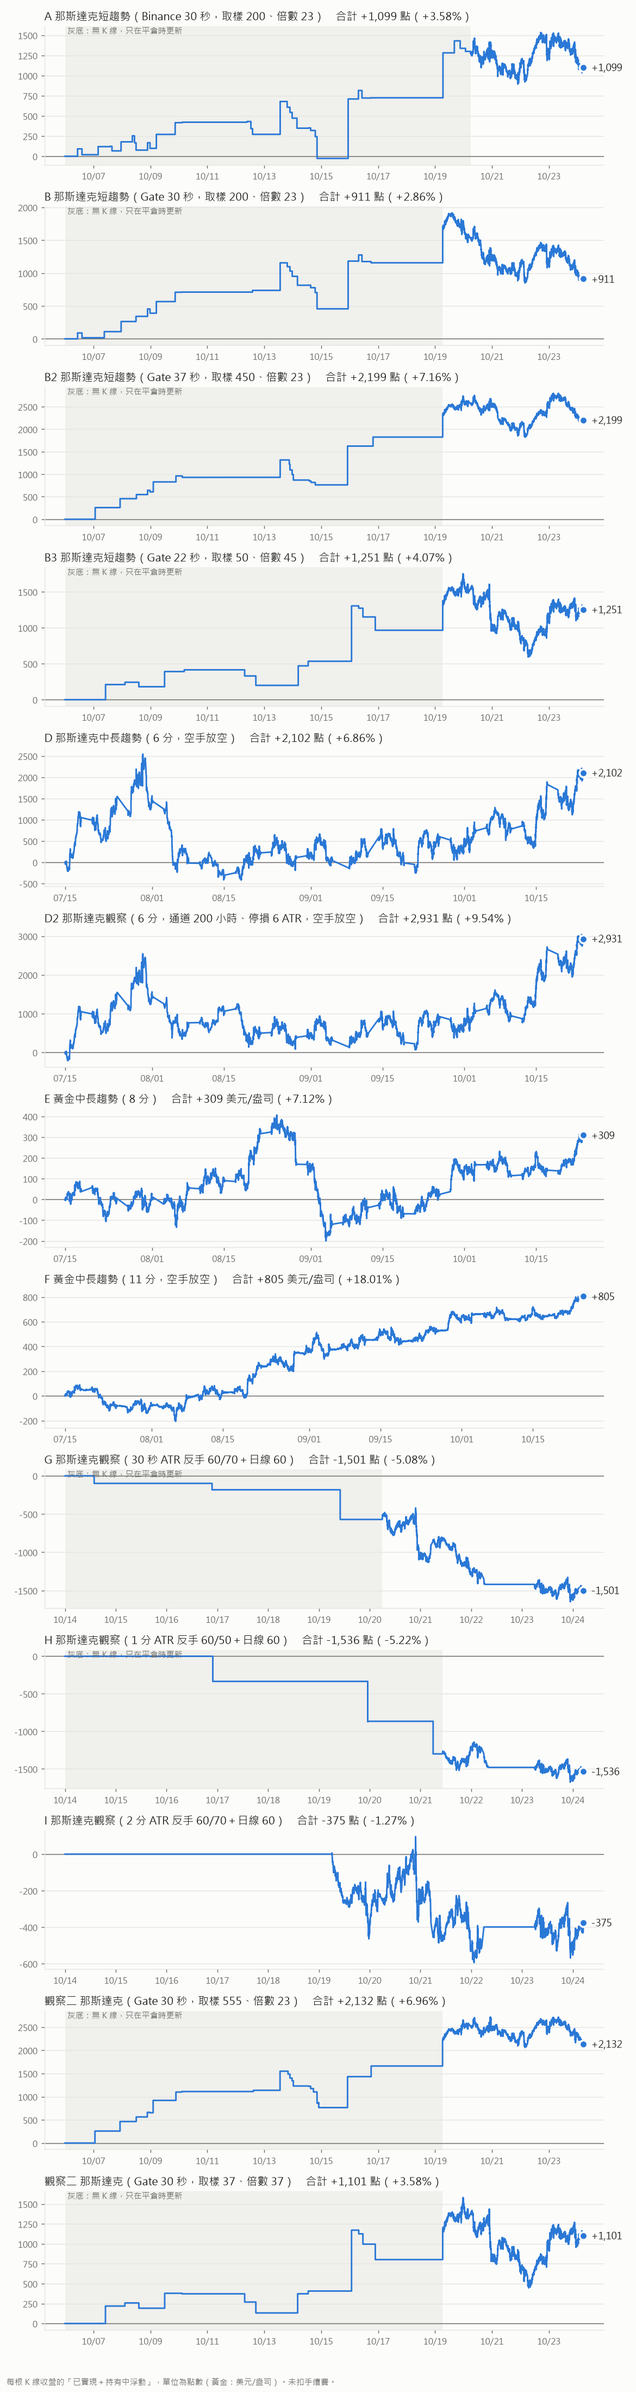
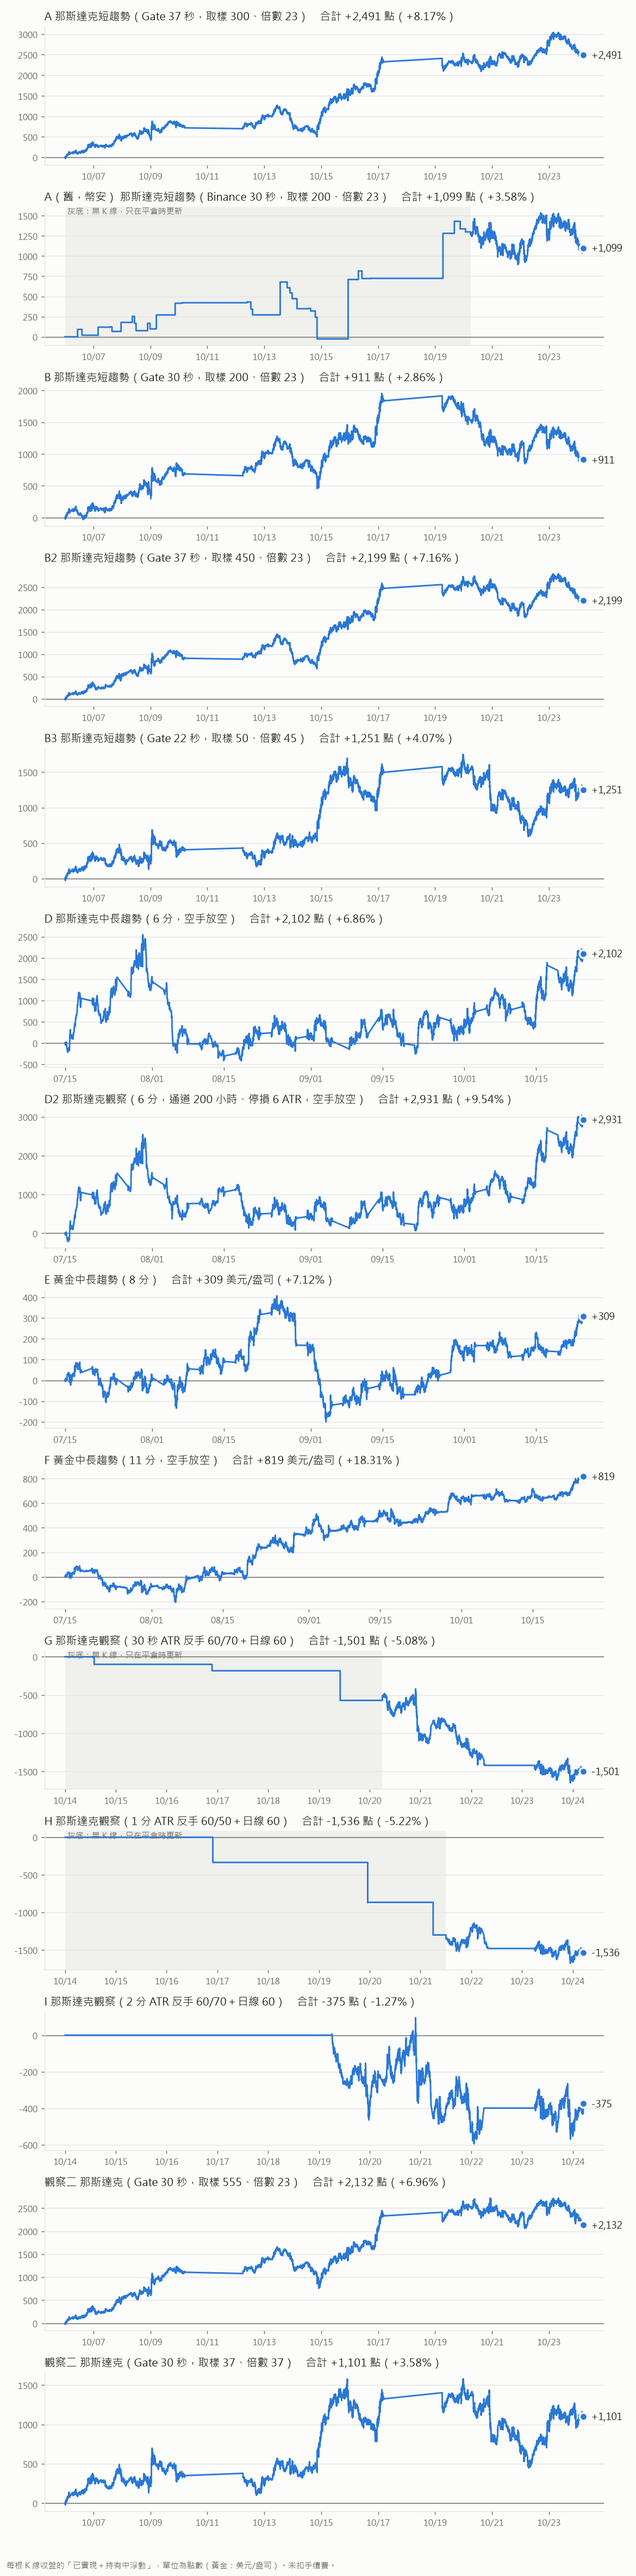
期貨趨勢 v1.26.0：A 格換成 GA（Gate 逐筆 37 秒 300/23，候選①），九格外框照部位閃爍、所有閃爍同步
- A 格改 Gate 逐筆合成 37 秒 Range Filter 300/23，畫面名稱改 GA；明細與績效表改讀紀錄代號 GA
- 紀錄程式新增 GA（起算 10/6，與 B2 共用 37 秒 K），回算新增 31 列；舊幣安 A 照樣更新、畫面不再列
- 電腦版九格外框：持多螢光紅、持空螢光綠閃爍，空手無框，取代 v1.25.1 固定藍框
- 所有 1.2 秒閃爍起點對齊同一時間原點

diff --git a/index.html b/index.html
@@ -3,7 +3,7 @@
 <head>
 <meta charset="utf-8">
 <meta name="viewport" content="width=device-width,initial-scale=1,viewport-fit=cover">
-<title>期貨趨勢 v1.25.1</title>
+<title>期貨趨勢 v1.26.0</title>
 <meta name="description" content="那斯達克 30 秒 Range Filter（Binance 與 Gate）、那斯達克 6 分、黃金 8 分與黃金 11 分 Donchian 的即時趨勢訊號">
 <meta name="theme-color" content="#0b0e14">
 <meta name="apple-mobile-web-app-capable" content="yes">
@@ -78,9 +78,12 @@ h1 small{font-size:11px;color:#ff2d55;font-weight:400;margin-left:5px}
   border-radius:8px;padding:5px 7px 6px}
 .ph{flex:none;display:flex;align-items:center;gap:6px;white-space:nowrap}
 .ph b{font-size:14px;color:#ffd400}
-/* v1.25.1：B2、觀察二 555/23、D2 外框螢光藍細線閃爍（使用者 2026-10-24 要求，只動框線深淺、不加光暈） */
-@keyframes frameBlink{0%,100%{border-color:#00e5ff}50%{border-color:rgba(0,229,255,.15)}}
-.panel.frame{border:1px solid #00e5ff;animation:frameBlink 1.2s ease-in-out infinite}
+/* v1.26.0：電腦版那九格外框照部位閃爍（使用者 2026-10-24 要求）：持多螢光紅、持空螢光綠、空手不加框；只動框線深淺，不加光暈。
+   取代 v1.25.1 固定的螢光藍框與 GA 固定紅框。 */
+@keyframes frLong{0%,100%{border-color:#ff1744}50%{border-color:rgba(255,23,68,.15)}}
+@keyframes frShort{0%,100%{border-color:#39ff14}50%{border-color:rgba(57,255,20,.15)}}
+.panel.fr-long{border:1px solid #ff1744;animation:frLong 1.2s ease-in-out infinite}
+.panel.fr-short{border:1px solid #39ff14;animation:frShort 1.2s ease-in-out infinite}
 /* v1.16.0：B2 與台指 A/B 是 2026-10-18 與 TradingView 版面 848 逐筆對齊確認過的兩格，
    商品名稱閃爍標示。只改透明度、不加光暈，字本身的清晰度不動。 */
 @keyframes blinkName{0%,100%{opacity:1}50%{opacity:.25}}
@@ -203,7 +206,7 @@ canvas{display:block;width:100%;height:100%;touch-action:pan-y;cursor:crosshair}
 
 <script>
 "use strict";
-const VERSION = "v1.25.1";   // v1.25.1：圖表標題 A 改回黃字不閃爍；B2、觀察二 555/23、D2 外框螢光藍細線閃爍。v1.25.0：電腦版（同一份程式，寬 1280px 以上或手動選「電腦」）：指定 9 格同一頁三欄三列、一樣大、不捲動；同市場格子同步顯示範圍（那斯達克、台指、恆生）；表格線螢光藍；持多／持空後面放合計（已平倉＋浮動）。v1.24.0：v1.23.6：圖表標題的觀察二 37/37 也改紅字閃爍；v1.23.5：圖表標題的 A、B2、D2、觀察二 555/23 改紅字閃爍；v1.23.4：績效表與明細的 A、B2、D2、觀察二 555/23 改紅字閃爍（只動透明度，不加光暈）；v1.23.3：明細的台指 A/B、觀察二台指拿掉閃爍；v1.23.2：台指四組從 10/21 起重新記錄觀察；v1.23.1：台指 A/B、觀察二可讀 台指/tv_hist.json 補 10/06 起的舊段明細；v1.23.0：台指四格用網頁自己的策略（參數不變）、資料只用 TradingView 台指期（1 秒 K 合成各格週期），不再照抄 848、不再讀期交所；v1.22.1：台指 K 線不再等期交所盤後檔，沒有連續月 30 秒時改用 TradingView 1 秒 K 合成；v1.22.0：台指 K 線改讀 TradingView 連續月 30 秒（轉接站 /tw，收到 200 根起生效，之前照舊）；v1.21.0：台指四組的持倉、明細、績效表改照 TradingView 848（連續月）交易清單（台指/tv_signals.json）；v1.20.4：台指換月窗恢復只看盤後（TX_HOLD_ROLL＝true）；v1.20.3：台指換月窗改即時優先；v1.20.2：明細視窗標題「交易明細」→「明細」；v1.20.1：標題列「中長趨勢」→「趨勢」、「交易明細」→「明細」；v1.20.0：交易明細加「績效表」分頁
+const VERSION = "v1.26.0";   // v1.26.0：A 格改 Gate 逐筆合成 37 秒 300/23（候選①），明細與績效表的 A 改讀紀錄代號 GA；畫面名稱改叫 GA；電腦版九格外框照部位閃爍（持多螢光紅、持空螢光綠、空手無框），取代 v1.25.1 的固定藍框。所有閃爍同步。v1.25.1：圖表標題 A 改回黃字不閃爍；B2、觀察二 555/23、D2 外框螢光藍細線閃爍。v1.25.0：電腦版（同一份程式，寬 1280px 以上或手動選「電腦」）：指定 9 格同一頁三欄三列、一樣大、不捲動；同市場格子同步顯示範圍（那斯達克、台指、恆生）；表格線螢光藍；持多／持空後面放合計（已平倉＋浮動）。v1.24.0：v1.23.6：圖表標題的觀察二 37/37 也改紅字閃爍；v1.23.5：圖表標題的 A、B2、D2、觀察二 555/23 改紅字閃爍；v1.23.4：績效表與明細的 A、B2、D2、觀察二 555/23 改紅字閃爍（只動透明度，不加光暈）；v1.23.3：明細的台指 A/B、觀察二台指拿掉閃爍；v1.23.2：台指四組從 10/21 起重新記錄觀察；v1.23.1：台指 A/B、觀察二可讀 台指/tv_hist.json 補 10/06 起的舊段明細；v1.23.0：台指四格用網頁自己的策略（參數不變）、資料只用 TradingView 台指期（1 秒 K 合成各格週期），不再照抄 848、不再讀期交所；v1.22.1：台指 K 線不再等期交所盤後檔，沒有連續月 30 秒時改用 TradingView 1 秒 K 合成；v1.22.0：台指 K 線改讀 TradingView 連續月 30 秒（轉接站 /tw，收到 200 根起生效，之前照舊）；v1.21.0：台指四組的持倉、明細、績效表改照 TradingView 848（連續月）交易清單（台指/tv_signals.json）；v1.20.4：台指換月窗恢復只看盤後（TX_HOLD_ROLL＝true）；v1.20.3：台指換月窗改即時優先；v1.20.2：明細視窗標題「交易明細」→「明細」；v1.20.1：標題列「中長趨勢」→「趨勢」、「交易明細」→「明細」；v1.20.0：交易明細加「績效表」分頁
 const $ = id => document.getElementById(id);
 const FAPI = "https://fapi.binance.com/fapi/v1";
 const sleep = ms => new Promise(r => setTimeout(r, ms));
@@ -502,10 +505,14 @@ function toFlatShort(R){
 
 /* ============ 面板設定（參數讀自 TradingView 版面 JuwDqkR0，2026-10-07） ============ */
 const PANELS = [
-  {k:"rf", pg:"short", title:"那斯達克", tf:"短趨勢・A", sym:"QQQUSDT", nq:true, kind:"rf", span:1e9,
-   spec:{tf:"30 秒", par:"Range Filter 取樣 200・倍數 23・多空反轉", src:"Binance QQQ 合約逐筆合成"},
-   sub:"Range Filter 取樣 200・倍數 23・多空反轉（線色＝濾網方向）",
-   P:{per:200, mult:23, useAtr:true, atrLen:12, atrMult:1.5, useVol:true, volLen:20}},
+  /* v1.26.0（使用者 2026-10-24「把 A 換成候選①」）：A 格由幣安 30 秒 200/23 改成 Gate 逐筆合成 37 秒 Range Filter 300/23
+     （與 B2 同資料、同週期，只換取樣）。10/6～10/24 掃 20～40 秒 × 11,550 組挑的：29 筆、+144,460（B2 31 筆 +125,062），
+     多出來的全在 10/15 之後，同一段資料挑的會偏好看。紀錄代號 GA；舊幣安 A 的紀錄照樣更新、不刪。
+     幣安 30 秒線仍要載入：那斯達克換算比例與觀察頁 G 格在用。 */
+  {k:"rf", pg:"short", title:"那斯達克", tf:"短趨勢・GA", sym:"QQQ_USDT", src:"gtr", tfSec:37, nq:true, kind:"rf", span:1e9,
+   spec:{tf:"37 秒", par:"Range Filter 取樣 300・倍數 23・多空反轉", src:"Gate QQQ 合約逐筆合成"},
+   sub:"Gate QQQ 合約逐筆合成 37 秒 K・Range Filter 取樣 300・倍數 23",
+   P:{per:300, mult:23, useAtr:true, atrLen:12, atrMult:1.5, useVol:true, volLen:20}},
   /* v1.6.0：A-2（取樣 400・倍數 16）拿掉，改放 Gate 版（使用者 2026-10-12 指定）。
      規則與 A-1 完全相同（30 秒 Range Filter 200/23），只換資料源：Gate QQQ_USDT 合約的原生 30 秒 K。
      為什麼：Binance 擋 Cloudflare，A-1 沒辦法雲端推播；Gate 連得到，LINE 推播改推這組。
@@ -520,7 +527,7 @@ const PANELS = [
      B2 37 秒 450/23 為 17 筆、勝率 41%、+1,675（37、38 秒 350～550 都在 +1,470～1,675）；
      B3 22 秒 50/45 為 9 筆、勝率 67%、+1,532（取樣 50 是掃描下限，周圍未確認）。都是同一段資料挑的，會偏好看。
      Gate 沒有 37、22 秒的原生 K，兩格用逐筆成交自己合成（GTR）。原 B2（30 秒 500/60）與 C 格（Hyperliquid 1 分）刪除。 */
-  {k:"gate2", red:true, frame:true, pg:"short", title:"那斯達克", tf:"短趨勢・B2", sym:"QQQ_USDT", src:"gtr", tfSec:37, nq:true, kind:"rf", span:1e9,
+  {k:"gate2", red:true, pg:"short", title:"那斯達克", tf:"短趨勢・B2", sym:"QQQ_USDT", src:"gtr", tfSec:37, nq:true, kind:"rf", span:1e9,
    spec:{tf:"37 秒", par:"Range Filter 取樣 450・倍數 23・多空反轉", src:"Gate QQQ 合約逐筆合成"},
    sub:"Gate QQQ 合約逐筆合成 37 秒 K・Range Filter 取樣 450・倍數 23",
    P:{per:450, mult:23, useAtr:true, atrLen:12, atrMult:1.5, useVol:true, volLen:20}},
@@ -552,7 +559,7 @@ const PANELS = [
   /* D2（使用者 2026-10-15 要求，放在 D 正下方）：同 D 的資料與算法，只換參數 200 小時／停損 6 ATR、空手改放空（不擋）。
      TradingView NQ1! 6 分 2008-10～2026-10 掃 162 組：200/6 多空都做 +1,064 點（空單 −11,996，2022 空頭年 +3,587），
      只做多 200/6 +13,060、抱著約 +25,700。使用者認為空頭時代要來，並行觀察。 */
-  {k:"nq6b", pg:"long", red:true, frame:true, title:"那斯達克", tf:"中長趨勢・D2", sym:"NQ=F", src:"yahoo", nq:false, kind:"don", tfMin:6, span:1e9, flatCol:"#4cff00", flatShort:true,
+  {k:"nq6b", pg:"long", red:true, title:"那斯達克", tf:"中長趨勢・D2", sym:"NQ=F", src:"yahoo", nq:false, kind:"don", tfMin:6, span:1e9, flatCol:"#4cff00", flatShort:true,
    spec:{tf:"6 分", par:"Donchian 回看 200 小時・停損 6 ATR・空手改放空", src:"NQ 期貨單一月份合約（Yahoo，延遲約 10 分鐘）"},
    sub:"NQ 期貨單一月份合約 6 分（同 D）・Donchian 回看 200 小時（2,000 根）・停損 6 ATR・空手改放空（不擋）",
    P:{lookH:200, mode:"long", stopAtr:6, atrLen:14, tfMin:6}},
@@ -588,7 +595,7 @@ const PANELS = [
      那斯達克 555/23 +7.71%（唯一三個商品前後半都賺的參數）、微台 555/23 +6.64%、那斯達克 37/37 +7.76%（回落 1.32% 最平順）、
      恆生 555/25.5 +6.11%（勝率 65%、回落 0.96%，但只有 2.5 週 17 筆）。參數照 848 不改；那斯達克兩格用 B 格同一份 Gate 30 秒原生 K、
      微台用台指頁的 30 秒 K。恆生沒有免費 30 秒資料源，先放空格，等使用者決定接法。 */
-  {k:"o2nq", red:true, frame:true, pg:"obs2", title:"那斯達克", tf:"觀察二・555/23", sym:"QQQ_USDT", src:"gate", nq:true, kind:"rf", span:1e9,
+  {k:"o2nq", red:true, pg:"obs2", title:"那斯達克", tf:"觀察二・555/23", sym:"QQQ_USDT", src:"gate", nq:true, kind:"rf", span:1e9,
    spec:{tf:"30 秒", par:"Range Filter 取樣 555・倍數 23・多空反轉", src:"Gate QQQ 合約原生 30 秒 K"},
    sub:"Gate QQQ 合約 30 秒 K（同 B）・Range Filter 取樣 555・倍數 23（848 左中）",
    P:{per:555, mult:23, useAtr:true, atrLen:12, atrMult:1.5, useVol:true, volLen:20}},
@@ -988,7 +995,7 @@ function recompute(p){
 function buildDOM(){
   $("ver").textContent = VERSION;
   $("grid").innerHTML = PANELS.map(p => `
-  <section class="panel${p.frame?" frame":""}" id="p-${p.k}">
+  <section class="panel" id="p-${p.k}">
     <div class="ph"><b${p.red?' class="redblink"':p.blink?' class="blink"':''}>${p.title}</b><span class="tag">${p.tf}</span><span class="badge" id="dir-${p.k}">—</span><span class="px" id="px-${p.k}"></span></div>
     <div class="kv" id="kv-${p.k}"></div>
     <div class="cw">
@@ -1075,6 +1082,14 @@ function totalHtml(p){
     return ` <span class="tot ${ud(Math.round(sum))}">${txt}</span>`;
   }catch(e){ return ""; }
 }
+/* v1.26.0：所有閃爍（外框、紅字標題、明細按鈕、即時燈號，都是 1.2 秒）起點對齊同一個時間原點，畫面上一起亮一起暗（使用者 2026-10-24 要求）。
+   動畫是各自加上樣式那一刻才起跑，不對齊就會錯開；每秒補一次，新出現的閃爍也會對齊。 */
+const BLINKS = new Set(["blink", "blinkName", "frLong", "frShort"]);
+function syncBlink(){
+  if(!document.getAnimations) return;
+  for(const a of document.getAnimations()) if(BLINKS.has(a.animationName) && a.startTime !== 0) a.startTime = 0;
+}
+setInterval(syncBlink, 1000);
 function renderInfo(p){
   if(!p.ready) return;
   const R = p.R, B = p.bars, last = B[B.length-1];
@@ -1084,6 +1099,8 @@ function renderInfo(p){
   const flatCls = p.flatCol === COL[1] ? "long" : p.flatCol ? "short" : "";
   badge.className = "badge " + (e.side > 0 ? "long" : e.side < 0 ? "short" : flatCls);
   badge.textContent = e.side > 0 ? "持多" : e.side < 0 ? "持空" : "空手";
+  if(BOARD_AT[p.k]){ const sec = $("p-" + p.k); sec.classList.toggle("fr-long", e.side > 0); sec.classList.toggle("fr-short", e.side < 0); }   // v1.26.0 九格外框照部位閃爍
+  syncBlink();
   badge.innerHTML += totalHtml(p);
 
   // 浮動點數：那斯達克兩格用換算後的那斯達克點數（跟交易明細一樣），換算比例還沒出來就先不顯示
@@ -1151,7 +1168,7 @@ function renderInfo(p){
    即時那幾筆可能跟正式紀錄差幾點（C 格 v1.8.5 起網頁與紀錄都用單一月份合約；Gate 網頁用原生 30 秒 K、
    紀錄用逐筆合成），下次開工跑紀錄後以正式紀錄為準。 */
 const TRADE_K = [
-  {k:"A", pk:"rf",     name:"A",    unit:"點", red:true},   // v1.23.4 紅字閃爍
+  {k:"GA", pk:"rf",    name:"GA",   unit:"點"},   // v1.26.0 A 改 Gate 37 秒 300/23（紀錄代號 GA）；舊幣安 A（紀錄代號 A）不再列
   {k:"G", pk:"gate",   name:"B",    unit:"點"},
   {k:"G2", pk:"gate2", red:true, name:"B2",   unit:"點"},   // v1.23.4 紅字閃爍（取代原黃底閃爍）   // v1.10.0 起 37 秒 450/23（Gate 逐筆合成）
   {k:"G3", pk:"gate3", name:"B3",   unit:"點"},   // v1.10.0 新增 22 秒 50/45；C 格（Hyperliquid）同版刪除
@@ -1829,7 +1846,7 @@ async function gtrFetch(fromMs, prog){
     while(i < segs.length){
       const s = segs[i++];
       for(const x of await gtrPage(s[0], s[1])) got.set(x.id, x);
-      done++; if(prog) setLoad("gtr", done / segs.length, `Gate 逐筆（B2、B3）${Math.round(done / segs.length * 100)}%`);
+      done++; if(prog) setLoad("gtr", done / segs.length, `Gate 逐筆（A、B2、B3）${Math.round(done / segs.length * 100)}%`);
     }
   };
   await Promise.all(Array.from({length:8}, worker));
@@ -2198,7 +2215,7 @@ async function main(){
       loadDon(PAN("gold8"), "黃金 1 分 K"),
       loadDon(PAN("gold11"), "黃金 PAXG 現貨").catch(e => { $("wait-gold11").textContent = "PAXG 現貨載入失敗：" + e.message + "，請重新整理"; }),
       loadGate(PAN("gate")).catch(e => { $("wait-gate").textContent = "Gate 30 秒 K 載入失敗：" + e.message + "，請重新整理"; }),
-      loadGTR().catch(e => { for(const k of ["gate2", "gate3"]) $("wait-" + k).textContent = "Gate 逐筆合成失敗：" + e.message + "，請重新整理"; setLoad("gtr", null); }),
+      loadGTR().catch(e => { for(const k of ["rf", "gate2", "gate3"]) $("wait-" + k).textContent = "Gate 逐筆合成失敗：" + e.message + "，請重新整理"; setLoad("gtr", null); }),
       // C 格 v1.10.0 刪除；Hyperliquid 仍要抓：H 格與交易明細的那斯達克換算要用
       loadHL(PAN("atr1")).catch(e => { $("wait-atr1").textContent = "Hyperliquid 載入失敗：" + e.message + "，請重新整理"; }),
       pollTXL().catch(() => {}),

diff --git a/實際紀錄/更新紀錄.py b/實際紀錄/更新紀錄.py
@@ -48,7 +48,9 @@ def ms(y, m, d, h=0):  # 台北時間 → 毫秒
 # B（畫面 C）是 Hyperliquid，只能回溯約 3.5 天，紀錄早已從 10/8 開始，回不到 10/6，維持 10/8。
 START = {"A": ms(2026, 10, 6), "A2": ms(2026, 10, 6), "G": ms(2026, 10, 6), "B": ms(2026, 10, 8), "C": ms(2026, 7, 15), "D": ms(2026, 7, 15), "E": ms(2026, 7, 15),
          "R30": ms(2026, 10, 14), "R1": ms(2026, 10, 14), "R2": ms(2026, 10, 14), "C2": ms(2026, 7, 15), "G2": ms(2026, 10, 6), "G3": ms(2026, 10, 6),
-         "O1": ms(2026, 10, 6), "O2": ms(2026, 10, 6)}
+         "O1": ms(2026, 10, 6), "O2": ms(2026, 10, 6), "GA": ms(2026, 10, 6)}
+# GA（2026-10-24 使用者要求「把 A 換成候選①」）：畫面 A 格改 Gate 逐筆合成 37 秒、Range Filter 300/23，起算 10/6，10/24 以前是回算。
+#   參數是 10/6～10/24 掃 20～40 秒 × 11,550 組挑的（同一段資料，會偏好看）。舊 A（幣安 30 秒 200/23）照樣更新、不刪，畫面上不再叫 A。
 # O1、O2（畫面「觀察二」那斯達克兩格，2026-10-18 使用者要求列進交易明細）：同 G 的 Gate 30 秒（逐筆合成），
 # Range Filter 555/23（848 左中）、37/37（848 右下），起算比照 G 的 10/6，10/18 以前是回算。
 # 2026-10-15 晚：使用者要求 B2 符合當初「訊號比 B 少、績效比 B 好」，掃 20～40 秒 × 418 組（10/6 起）後指定
@@ -58,14 +60,15 @@ START = {"A": ms(2026, 10, 6), "A2": ms(2026, 10, 6), "G": ms(2026, 10, 6), "B":
 # 10/15 以前是回算、不是當時實際記的。換月（12/11）時跟 R2 一樣還不會記換倉。
 # 2026-10-14 使用者要求 D、E 回溯拉到最大：XAUUSDT 2025/12/11 上市、PAXGUSDT 1 分 K 從 2020/08/28，各扣 350 小時暖機。
 # C 維持 8/15：單一月份合約的真 5 分 K 只有 60 天，更早只剩小時 K（9 月約已下市）。
-ORDER = ["A", "G", "G2", "G3", "C", "C2", "D", "E", "R30", "R1", "R2", "O1", "O2"]
+ORDER = ["GA", "A", "G", "G2", "G3", "C", "C2", "D", "E", "R30", "R1", "R2", "O1", "O2"]
 # LABEL 是畫面代號（v1.8.4 起照畫面順序叫 A～F），只用在印績效與曲線圖標題；紀錄檔「格子」欄仍是左邊的內部代號。
-LABEL = {"A": "A", "A2": "A-2", "G": "B", "B": "C", "C": "D", "D": "E", "E": "F", "R30": "G", "R1": "H", "R2": "I", "C2": "D2", "G2": "B2", "G3": "B3", "O1": "觀察二", "O2": "觀察二"}
+LABEL = {"GA": "GA", "A": "A（舊，幣安）", "A2": "A-2", "G": "B", "B": "C", "C": "D", "D": "E", "E": "F", "R30": "G", "R1": "H", "R2": "I", "C2": "D2", "G2": "B2", "G3": "B3", "O1": "觀察二", "O2": "觀察二"}
 NAME = {"A": "那斯達克短趨勢（Binance 30 秒，取樣 200、倍數 23）", "A2": "那斯達克短趨勢（取樣 400、倍數 16）", "G": "那斯達克短趨勢（Gate 30 秒，取樣 200、倍數 23）", "B": "那斯達克短趨勢（1 分，取樣 100、倍數 16）", "C": "那斯達克中長趨勢（6 分，空手放空）", "D": "黃金中長趨勢（8 分）", "E": "黃金中長趨勢（11 分，空手放空）",
         "R30": "那斯達克觀察（30 秒 ATR 反手 60/70＋日線 60）", "R1": "那斯達克觀察（1 分 ATR 反手 60/50＋日線 60）", "R2": "那斯達克觀察（2 分 ATR 反手 60/70＋日線 60）",
         "C2": "那斯達克觀察（6 分，通道 200 小時、停損 6 ATR，空手放空）",
         "G2": "那斯達克短趨勢（Gate 37 秒，取樣 450、倍數 23）",
         "G3": "那斯達克短趨勢（Gate 22 秒，取樣 50、倍數 45）",
+        "GA": "那斯達克短趨勢（Gate 37 秒，取樣 300、倍數 23）",
         "O1": "那斯達克（Gate 30 秒，取樣 555、倍數 23）", "O2": "那斯達克（Gate 30 秒，取樣 37、倍數 37）"}
 GOLD = ("D", "E")   # 單位是美元/盎司
 
@@ -595,7 +598,7 @@ if __name__ == "__main__":
     # B2（G2，37 秒 450/23）、B3（G3，22 秒 50/45）共用同一份逐筆，各自合成；
     # B2 暖機約 2,700 根（約 28 個交易小時），第一次從起算日往前多抓 5 天（中間有週末休市）
     gsince = min(last_t("G", START["G"]), last_t("G2", START["G2"] - 2 * 86400000), last_t("G3", START["G3"] - 2 * 86400000),
-                 last_t("O1", START["O1"] - 2 * 86400000), last_t("O2", START["O2"] - 2 * 86400000), NOW) - 3 * 86400000
+                 last_t("O1", START["O1"] - 2 * 86400000), last_t("O2", START["O2"] - 2 * 86400000), last_t("GA", START["GA"] - 2 * 86400000), NOW) - 3 * 86400000
     GTR = gate_trades(gsince)
     BG = bars_G(gsince, 30, GTR); posG, wG = calc_rf(BG, 200, 23)
     added += update("G", BG, posG, wG, "QQQ_USDT", nqconv)
@@ -606,6 +609,8 @@ if __name__ == "__main__":
     added += update("O2", BG, posO2, wO2, "QQQ_USDT", nqconv); LAST["O2"] = LAST["G"]
     BG2 = bars_G(gsince, 37, GTR); posG2, wG2 = calc_rf(BG2, 450, 23)
     added += update("G2", BG2, posG2, wG2, "QQQ_USDT", nqconv); LAST["G2"] = (BG2[-1][4], BG2[-1][0], nqconv(BG2[-1][0], BG2[-1][4]))
+    posGA, wGA = calc_rf(BG2, 300, 23)   # 畫面 A：同 B2 的 37 秒 K
+    added += update("GA", BG2, posGA, wGA, "QQQ_USDT", nqconv); LAST["GA"] = LAST["G2"]
     BG3 = bars_G(gsince, 22, GTR); posG3, wG3 = calc_rf(BG3, 50, 45)
     added += update("G3", BG3, posG3, wG3, "QQQ_USDT", nqconv); LAST["G3"] = (BG3[-1][4], BG3[-1][0], nqconv(BG3[-1][0], BG3[-1][4]))
 
@@ -652,7 +657,7 @@ if __name__ == "__main__":
     posR2, wR2 = calc_atr_rev(BR2, 60, 70, 60, DAILY)
     added += update("R2", BR2, posR2, wR2, act[1]); LAST["R2"] = (BR2[-1][4], BR2[-1][0], None)
 
-    BARS = {"A": BA, "G": BG, "B": BB, "C": BC, "D": BD, "E": BE, "R30": BA, "R1": BB, "R2": BR2, "C2": BC, "G2": BG2, "G3": BG3, "O1": BG, "O2": BG}
+    BARS = {"A": BA, "G": BG, "B": BB, "C": BC, "D": BD, "E": BE, "R30": BA, "R1": BB, "R2": BR2, "C2": BC, "G2": BG2, "G3": BG3, "O1": BG, "O2": BG, "GA": BG2}
     allrows = [r for r in LOG_ROWS if r not in added] + added
     allrows.sort(key=lambda r: (r["格子"], int(r["時間戳"])))
     save_log(allrows)
